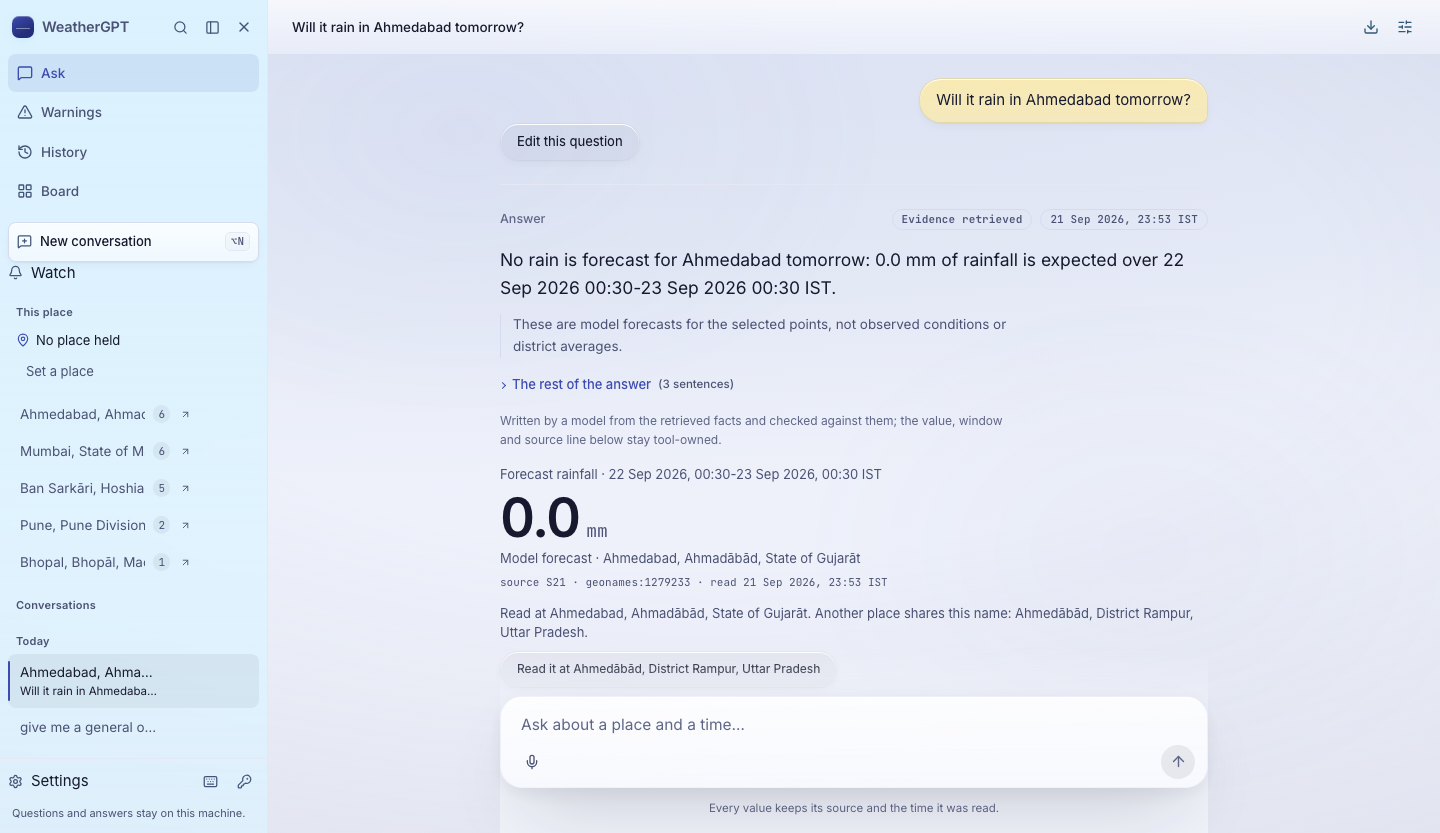
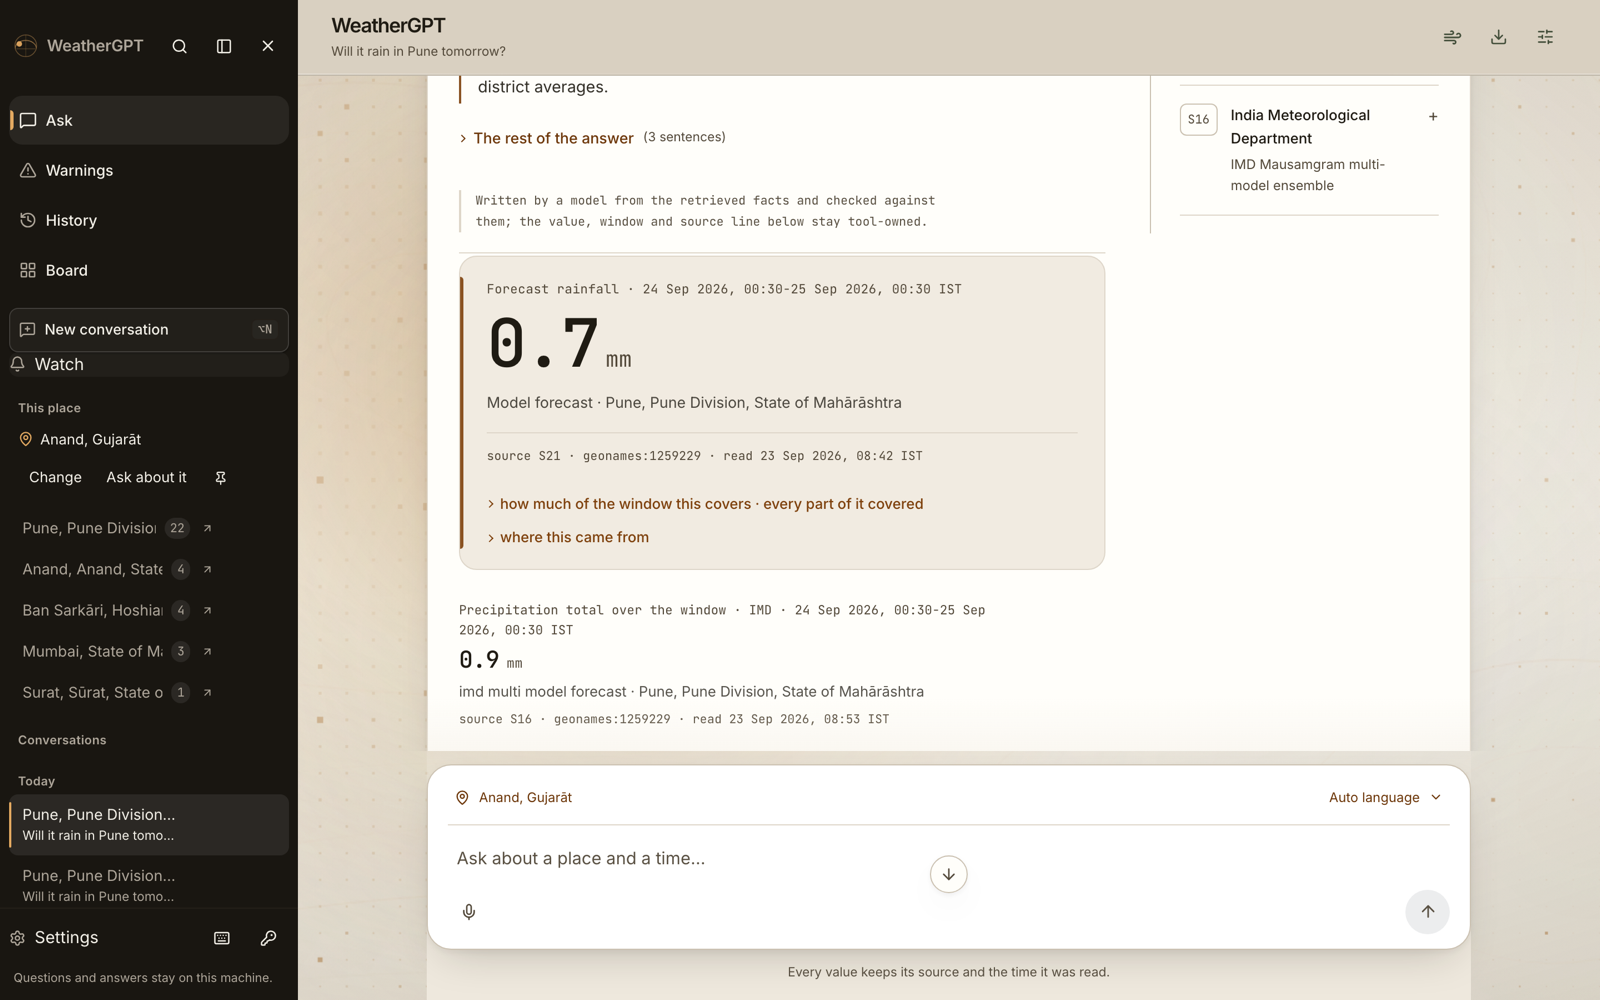
The README was showing a design that no longer exists
Its gallery recorded the solar direction from two overhauls ago - a dark door, a
skyline, a light door - under a note admitting the screenshots were stale. A
README whose first images are of a product you cannot open is worse than one with
no images, and this is the page an evaluator reads first.

Regenerated from the running build, and the interface finally has a section of
its own: the four planes, the palette that drifts on the sun without leaving the
light family, the numeral face, and the one idea in this interface that is only
available to this product - the glow behind the page is positioned from the real
solar altitude and hour angle at the held place, so the arc on the front door and
the light behind the whole page are one fact stated twice.

Two real defects found while capturing it:
- The bar could not contain its own station chip. The chip grew a second row so
  its receipt would never be the thing that got ellipsised, and the bar was still
  pinned to a 68px min-height, so the place name was clipped against its edge.
- The masthead named the STATION's place, which is not known until that read
  lands, so for the first seconds of every visit it said "No place held" while
  the composer two elements below already named the place. It states the held
  place now - the reader's own choice, known immediately.

The frame cost in the README is measured rather than asserted: 9.8 ms median over
[…]

diff --git a/frontend/src/gpt/css/meridian.css b/frontend/src/gpt/css/meridian.css
@@ -720,9 +720,11 @@
   border-color: var(--g-line-soft);
   box-shadow: none;
 }
-/* The reader's own question sits ON the ground, not on a sheet: it is not the thing being read. */
+/* The reader's own question sits ON the ground, not on a sheet: it is not the thing being read. The
+   solved --g-bubble-fill is a warm film meant to catch a dark sky; over paper it came out a saturated
+   yellow and the question read as a sticky note stuck to the page. Warm, but the ground's own warmth. */
 .g[data-design='meridian'] .g-you p {
-  background: var(--g-bubble-fill);
+  background: color-mix(in srgb, var(--g-raise-2) 88%, var(--g-solar) 12%);
   border: 1px solid var(--g-line-soft);
   box-shadow: var(--g-e1);
 }
@@ -846,11 +848,18 @@
    The receipt is not optional - a reading on this product states where it came from, and a spec pins that
    it is not hidden in a title attribute. So the chip becomes two lines: the reading on the first, the
    receipt on the second, at a size that fits what it has to say. */
+/* The bar SIZES TO ITS CONTENT. The station chip grew a second row for its receipt, which is right - the
+   receipt is the longest thing in it and must never be the thing that gets cut - but the bar was still
+   pinned to a 68px min-height with the chip centred in it, so the chip overflowed and the place name was
+   clipped against the bar's own edge. A header that cannot contain its contents is not a header. */
 .g[data-design='meridian'] .g-top {
   background: var(--g-bar-fill);
   border-bottom: 1px solid rgba(25,26,22,.14);
   box-shadow: inset 0 -1px 0 rgba(255,255,255,.35);
+  align-items: center; min-height: 0; height: auto; overflow: visible;
+  padding-block: 11px;
 }
+.g[data-design='meridian'] .g-skyline { align-self: center; }
 /* Two rows, laid out as rows. The grid version of this overflowed its own pill - the receipt was given a
    column span inside a three-column auto grid and pushed the whole element past its max-width, which is
    how a place name ended up printed outside the box that was supposed to contain it. A flex column with
@@ -950,7 +959,7 @@
    snapping off at the horizon - which is what the sky does. */
 .g-bloom[data-bloom='sun'] {
   left: var(--sun-x, 50%); top: var(--sun-y, 30%);
-  width: 104vmax; height: 104vmax; margin: -52vmax 0 0 -52vmax;
+  width: 88vmax; height: 88vmax; margin: -44vmax 0 0 -44vmax;
   background: radial-gradient(circle closest-side,
     color-mix(in srgb, var(--g-solar) 58%, transparent) 0%,
     color-mix(in srgb, var(--g-solar-soft) 26%, transparent) 38%,
@@ -963,7 +972,7 @@
    page, which is why it is cool: a warm room at two in the morning reads as a lamp somebody left on. */
 .g-bloom[data-bloom='sky'] {
   left: 44%; top: 62%;
-  width: 96vmax; height: 96vmax; margin: -48vmax 0 0 -48vmax;
+  width: 78vmax; height: 78vmax; margin: -39vmax 0 0 -39vmax;
   background: radial-gradient(circle closest-side,
     rgba(122, 132, 144, .34) 0%,
     rgba(150, 158, 168, .16) 42%,

diff --git a/frontend/src/gpt/Welcome.tsx b/frontend/src/gpt/Welcome.tsx
@@ -87,9 +87,9 @@ export function Welcome({ hour }: { hour: Hour }) {
 
   const reading = sky.data;
   const place = reading?.place ?? null;
-  /* The reader's own name for this place, if they gave it one. A display name only: what is sent to the
-     engine is the label the catalogue returned, and the title above says so. */
-  const alias = place ? prefs.aliases[place] : '';
+  /* The reader's own name for a place, if they gave it one, is read from `prefs.aliases` at each use:
+     the masthead names the HELD place and the reading below names the STATION's, and those are two
+     different places whenever the nearest station is in the next district. */
   const source = reading ? stationSource(reading) : '';
 
   return (
@@ -108,8 +108,13 @@ export function Welcome({ hour }: { hour: Hour }) {
       <p className="w-strip">
         <span>{istStamp(at.toISOString())}</span>
         <span className="w-strip-dot" aria-hidden="true" />
-        <span className="w-strip-place" data-held={place ? 'true' : 'false'}>
-          {place ? (alias || shortPlace(place)) : t('welcome.noPlaceHeld')}
+        {/* THE READER'S OWN HELD PLACE, not the station's.
+            `place` below is the place the nearest-station read came back about, which is not known until
+            that read lands - so for the first second or two of every visit the masthead said "No place
+            held" while the composer two elements down already named the place. The held place is known
+            immediately, it is the reader's own choice, and it is what "where you are" means here. */}
+        <span className="w-strip-place" data-held={held?.label ? 'true' : 'false'}>
+          {held?.label ? (prefs.aliases[held.label] || shortPlace(held.label)) : t('welcome.noPlaceHeld')}
         </span>
       </p>
 

diff --git a/frontend/src/gpt/skyfield.ts b/frontend/src/gpt/skyfield.ts
@@ -297,7 +297,7 @@ export function drawSkyfield(
 const SLOW_SCALE = 0.5;
 
 /** Grid spacing in CSS pixels. */
-const GRID = 24;
+const GRID = 27;
 /** The largest a cell gets at rest, before activation. */
 const DOT = 4.2;
 /** How long a fired cell takes to fall back, in seconds. */

diff --git a/docs/162-four-planes-and-the-sun.md b/docs/162-four-planes-and-the-sun.md
@@ -1,0 +1,109 @@
+# 162 — Four planes, and the light that is actually the sun
+
+> **The gap.** Three rounds of review said the same thing in different words: pale, monotonous, nothing
+> memorable, a background that does not feel alive. They were one fault. Every surface in the product sat
+> inside a tenth of a luminance step of every other, so there was nothing for the eye to rank — and nothing
+> for a moving layer to be drawn against. A contour at a fifth of an alpha on near-white paper is invisible
+> however fast it moves, which is why four attempts at "make the background alive" all failed.
+
+23 September 2026, continuing docs/161. Local implementation and measured verification; no deployment or
+PS acceptance claim.
+
+---
+
+## Four planes, ranked
+
+| plane | luminance | what it is |
+|---|---|---|
+| rail | 0.008 | near-black. Chrome. Not where you read |
+| bar | 0.58–0.64 | grey. Which conversation this is, and the controls that act on it |
+| ground | 0.74–0.83 | the living surface. Where the atmosphere is, and dark enough to finally see it on |
+| sheet | 0.97–1.00 | white. The conversation. The brightest thing on screen, because it is the product |
+
+That last row is the point. A chat screen whose chat is a layer underneath a decoration has the wrong hero.
+Putting the turns on white sheets over the living ground promotes the conversation *and* gives the
+atmosphere somewhere to live — it no longer has to be dimmed to a third to stay out of the prose's way,
+because it is no longer behind the prose.
+
+## The light is the sun
+
+The glow behind the page is positioned from the real solar altitude and hour angle at the reader's held
+place, from the same solver `DayArc` is plotted from. It rises at screen left, arcs over through the
+morning, sets at the right, and goes out below the horizon leaving the cool ambient alone.
+
+So the arc on the front door and the light behind the whole page are **one fact stated twice** — one you
+read, one you only feel. At four in the afternoon the page is lit from the west, because it is.
+
+It is CSS, not canvas: two large radial gradients moved on transform and opacity are composited on the GPU
+and cost the main thread nothing. The same shapes redrawn per frame on canvas were the most expensive fills
+in the product.
+
+## The day goes cool at midnight
+
+The second revision made the whole day warm, including 02:00, and warm light at two in the morning reads as
+a lamp somebody left on. The four hours now travel: cool slate at midnight, warm at first light, neutral
+and bright at high sun, umber at dusk. The amber accent does **not** travel with it — an amber lamp in a
+cool grey room is one of the strongest pairings there is, and a fixed accent is what makes the ground's own
+temperature legible as a change rather than as a different product.
+
+## A bare selector was overriding the whole design
+
+The dashboard's send button was blue. Not a stale build:
+
+```css
+[data-hour='noon'] { --g-send-bg: linear-gradient(180deg, #2a68d8, #1f5ccc); ... }
+```
+
+`.g` carries `data-hour` too, and **a declaration on an element beats a value inherited from its parent**.
+So every token in those four fallback blocks was overriding both the active design's palette and the live
+inline spectrum, for everything inside the shell. The root got the right values and nothing below it did.
+
+This is the third time this exact fault has been found in this project, and it survives because it fails
+silently — the page still renders, just in the wrong palette. Scoped to `:root`, those blocks are the
+fallback they were always meant to be. The blue send button, the yellow question bubble and a cyan rail
+film all went with it.
+
+## One pass across all nineteen surfaces
+
+- **A card is the same white sheet the conversation uses.** `--g-fill` was solving to a translucent
+  gradient, so every module card was warm glass while the answer sheets beside them were opaque white.
+- **Every value is set in the numeral face.** It had reached the conversation's claims and the arc and
+  nowhere else, so the dashboard's `26.4` was still in the UI sans.
+- **The "ask instead" links moved below the content.** They sat between a surface's own finding and the
+  tables that prove it. A keyboard user now reaches the instrument before the escape hatch, and
+  `map.gaps.test.tsx` records the new tab order.
+- **Place labels collapsed for display.** "Anand, Anand, State of Gujarāt" was printing three times on one
+  screen. The engine, every source line and every citation still get the catalogue's full label.
+- **The bar sizes to its content.** Its station chip grew a second row for the receipt and overflowed a
+  fixed 68px min-height, clipping the place name against the bar's own edge.
+- **The masthead states the held place**, not the station's — the station's is not known until its read
+  lands, so for the first seconds of every visit it said "No place held" while the composer named the place.
+
+## Measured
+
+```
+frontend  npx vitest run            90 suites, 594 checks, 0 failed
+frontend  npx tsc --noEmit          clean
+repo      audit_react_frontend.py   19 checks, 0 failed
+backend   pytest tests -q           1630 passed
+repo      check_status_drift.py     0 problem(s)
+```
+
+**Frame cost**, headless software rasterisation, 390 frames at 1440×900 DPR 2: mean 11.2 ms, **median
+9.8 ms**, p95 25.6 ms, 27 frames over the 16.7 ms a 60 fps budget allows. The p95 is the slow layer's
+rebuild, which lands whole on whichever frame it falls on. This is before any of the compositing a real GPU
+does for free, and it is not a claim about a real device.
+
+**No horizontal page scroll** at 768px or 390px (`scrollWidth === innerWidth` at both). The elements that
+report as overflowing are the atmosphere, which is clipped by its own container, and the off-canvas rail.
+
+## Limits carried forward
+
+- **The frame measurement is software rasterisation in headless Chromium.** It is the honest number for
+  what the code costs; it is not a measurement on named hardware and no device benchmark was run.
+- **The surface pass was systemic, not compositional.** Material, numerals, card treatment and the order of
+  the suggestion row now reach all nineteen. Individual surfaces — Watch's operator vocabulary, the map's
+  legend, the document catalogue's density — have not each had their own composition reviewed.
+- **Reduced motion draws one still and no firing.** A trail is motion by construction; that is a deliberate
+  absence rather than a fallback.
+- The build still reports the pre-existing large main-chunk warning.

diff --git a/README.md b/README.md
@@ -11,7 +11,7 @@ Team **Void Pointer** (18) · Disaster Management
 
 </div>
 
-![An answered turn: the finding in the first sentence, the engine's caveat under it, the rest folded away, then the claim the tools own — 0.0 mm with its window, its place, its kind and its source line](docs/images/readme/answer.png)
+![An answered turn on a white sheet over the living ground: the engine's caveat, the rest of the prose folded away, then the claim the tools own — 0.7 mm set at display size in the machine face, with its window, its place, its kind and the minute its source was read](docs/images/readme/answer.png)
 
 ---
 
@@ -284,16 +284,38 @@ cd frontend && node tools/demo.mjs                   # 10 live turns, recorded, 
 
 <table>
 <tr>
-<td width="50%"><img src="docs/images/readme/door-light.png" alt="The front door on the light hours: the live reading, and a fine-line Indian skyline dividing the sky from the composer"></td>
-<td width="50%"><img src="docs/images/readme/door-dark.png" alt="The same door after dark: deep sea-blue ground, the skyline etched in light ink"></td>
-</tr>
-<tr>
-<td width="50%"><img src="docs/images/readme/surface-warnings.png" alt="The warnings surface: district rows in the publisher's own hazard colours with their day windows"></td>
-<td width="50%"><img src="docs/images/readme/surface-climate.png" alt="The climate surface: a published series with its source line and the years the source could not supply"></td>
+<td width="50%"><img src="docs/images/readme/door.png" alt="The front door: a masthead of date, time and held place; today's sun plotted across the full width with the daylight filled in gold; the greeting, and the station's own reading in a card with its source line"></td>
+<td width="50%"><img src="docs/images/readme/surface-dashboard.png" alt="The dashboard: one place read as a picture — the model hour, the nearest station, an eight-day strip and an hourly trend, each value in the machine face with its own source"></td>
 </tr>
 </table>
 
-**The active React interface now uses Meridian Light.** The screenshots above record the earlier solar direction. The selected 22 September design keeps a matte mineral-white ground, restrained weather contours, answer-owned source margins and compatible comparison tables. Background motion responds to actual work and can be paused. The welcome mark still reads the astronomical hour. See [the implementation and verification record](docs/160-meridian-react-ui.md).
+---
+
+## ⭐ The interface is an instrument, and the light in it is real
+
+Four planes, ranked by darkness, so the eye has something to rank: a **near-black rail**, a **grey bar**, a **living ground**, and the conversation on **white sheets**. The chat is the brightest thing on screen, because it is the product.
+
+**The glow behind the page is the sun.** Not a decoration placed by eye — its position comes from the real solar altitude and hour angle at the place you are holding, from the same solver that plots the arc on the front door. It rises at screen left, arcs over through the morning, sets at the right, and goes out below the horizon leaving only the cool ambient. At four in the afternoon the page is lit from the west, because it is.
+
+The palette moves with it. Meridian has its own four hours — a cool slate room at midnight, warm at first light, neutral and bright at high sun, umber at dusk — drifting continuously on the sun rather than stepping between fixed values, and never once leaving the light family. A full day of it is swept every fifteen minutes at four latitudes in `meridianSpectrum.test.ts`: the ground has to stay pale, the rail near-black, every ink has to clear AA on every plane it is set on, and **the hours have to actually differ from each other**.
+
+| | |
+|---|---|
+| The front door's hero | Today's solar altitude, plotted across the full width. Sunrise and sunset solved from the altitude zero-crossings, checked against published almanac times for five place/date pairs, to within ten minutes — the band the low-precision solar position is honestly good to |
+| Every value | Set in Martian Mono, tabular, so a reading looks read off an instrument rather than typed |
+| A retrieved value | Exact from its first painted frame. It used to count up from zero, which meant a second of display-size measurements no source ever published, with a real citation under each one |
+| The background | A contoured pressure field and a firing cell array, both derived from one scalar field, over two blend-mode light layers. Measured at a **9.8 ms median frame** under headless software rasterisation — inside the 16.7 ms a 60 fps budget allows, before any of the compositing a real GPU does for free. The slow layer is rendered at half resolution six times a second and blitted; the array is the only thing redrawn every frame |
+| Reduced motion | One still frame, no loop, no firing. A trail is motion by construction; there is no still version of one |
+
+The atmosphere is decoration and says so: inside an `aria-hidden` ground, no legend, never derived from a retrieved value, and held far below the contrast at which a reader would try to read it.
+
+<table>
+<tr>
+<td width="100%"><img src="docs/images/readme/surface-warnings.png" alt="The warnings surface: the finding stated first — 756 districts, 3,780 district-day rows, and how many days the product printed red, orange and yellow — then the filter and the district-by-day matrix in the publisher's own colours"></td>
+</tr>
+</table>
+
+Every one of the nineteen surfaces leads with **what this read states** — the finding, in the evidence's own terms — before the controls and the tables that prove it. The way back to the conversation sits at the end, where an offer belongs.
 
 ---
 
